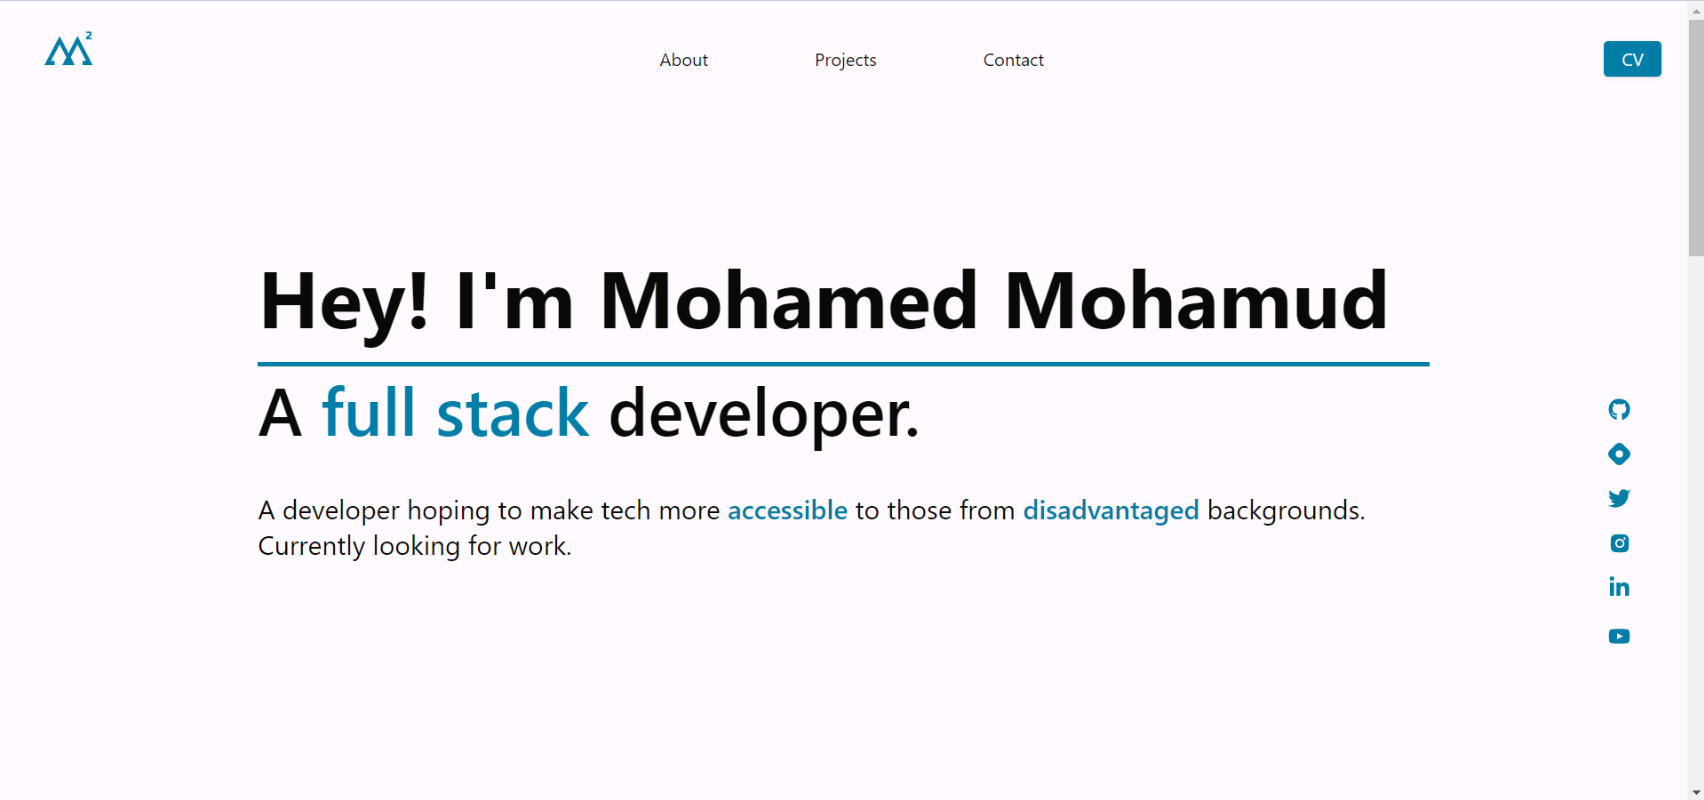
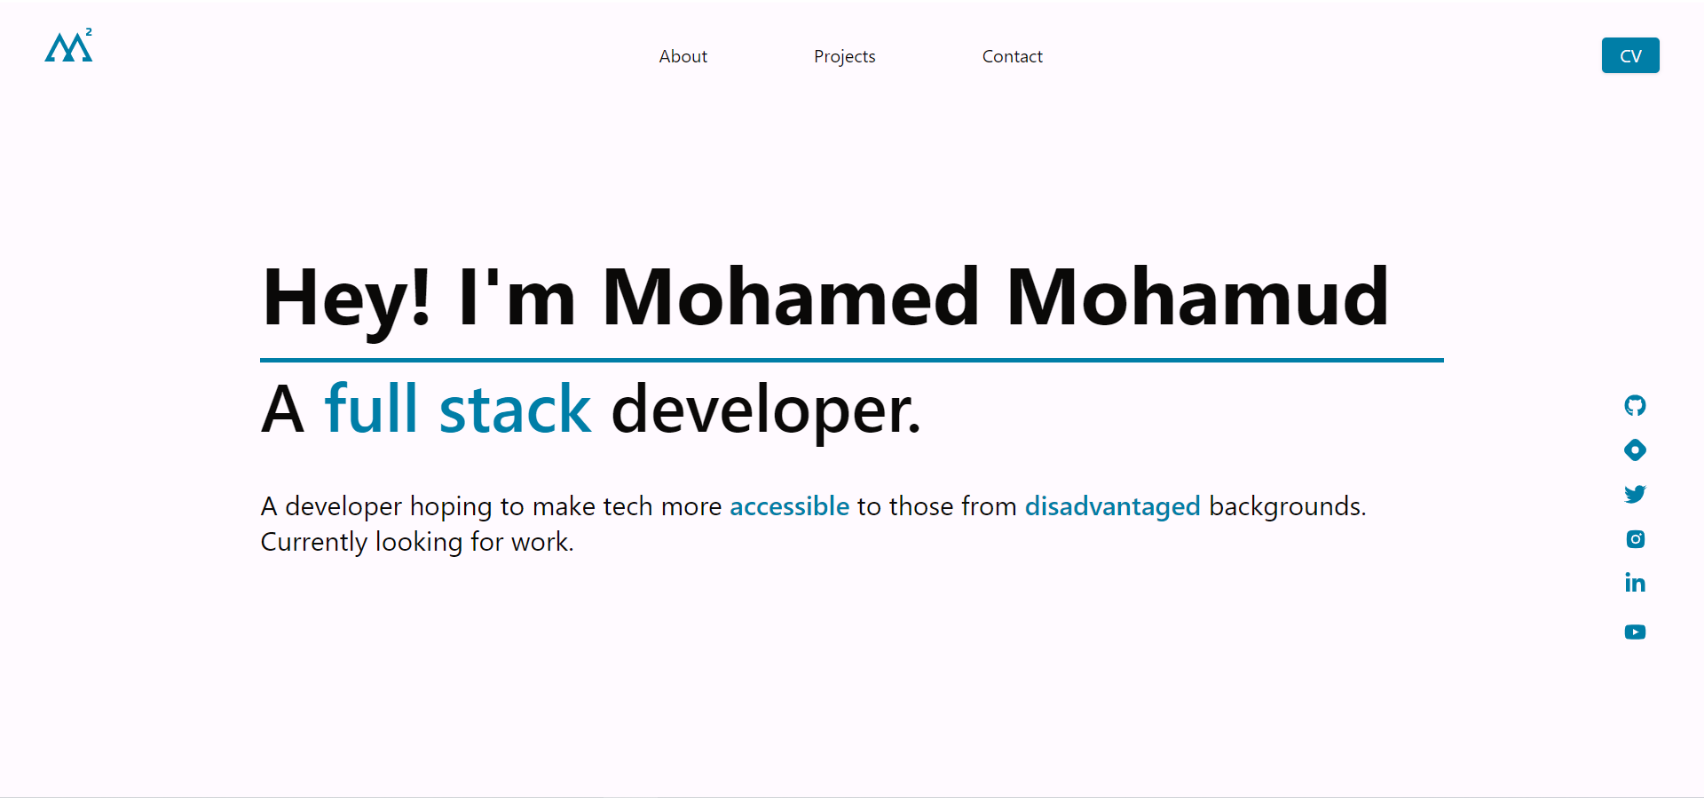
adding responsiveness to home and about pages

diff --git a/components/PageTwo/BodyTwo.js b/components/PageTwo/BodyTwo.js
@@ -12,13 +12,13 @@ function BodyTwo() {
       return (
             <div className="flex justify-center h-screen overflow-hidden">
                   <div className="flex w-10/12 overflow-hidden ">
-                        <div className="flex h-screen md:pt-24">
+                        <div className="flex h-screen  md:pt-24">
                               <div>
-                                    <div className="pb-3 text-portblue text-[8vw] md:text-5xl font-semibold">
+                                    <div className="pb-3 text-portblue text-[7vw] md:text-5xl font-semibold">
                                           <div>About me</div>
                                     </div>
                                     <div className="pb-8 border-t-4 w-60 border-portblue"></div>
-                                    <div className="w-8/12  text-portblack text-[4vw] md:text-[1.075rem]">
+                                    <div className="w-9/12  text-portblack text-[2.375vw] md:text-[1.075rem]">
                                           <div className="pb-5 ">
                                                 <p>
                                                       {" "}
@@ -136,45 +136,31 @@ function BodyTwo() {
                                           <div className="flex justify-between">
                                                 <Technologies
                                                       technology="React"
-                                                      icon={
-                                                            <FaReact size="45" />
-                                                      }
+                                                      icon={<FaReact />}
                                                 />
                                                 <Technologies
                                                       technology="JavaScript"
-                                                      icon={
-                                                            <DiJavascript1 size="45" />
-                                                      }
+                                                      icon={<DiJavascript1 />}
                                                 />
                                                 <Technologies
                                                       technology="Node.js"
-                                                      icon={
-                                                            <FaNodeJs size="45" />
-                                                      }
+                                                      icon={<FaNodeJs />}
                                                 />
                                                 <Technologies
                                                       technology="Next.js"
-                                                      icon={
-                                                            <SiNextdotjs size="45" />
-                                                      }
+                                                      icon={<SiNextdotjs />}
                                                 />
                                                 <Technologies
                                                       technology="Jest"
-                                                      icon={
-                                                            <SiJest size="45" />
-                                                      }
+                                                      icon={<SiJest />}
                                                 />
                                                 <Technologies
                                                       technology="TypeScript"
-                                                      icon={
-                                                            <SiTypescript size="45" />
-                                                      }
+                                                      icon={<SiTypescript />}
                                                 />
                                                 <Technologies
                                                       technology="PostgreSQL"
-                                                      icon={
-                                                            <SiPostgresql size="45" />
-                                                      }
+                                                      icon={<SiPostgresql />}
                                                 />
                                           </div>
                                     </div>

diff --git a/components/PageThree/Projects/ProjectThree.js b/components/PageThree/Projects/ProjectThree.js
@@ -1,31 +1,34 @@
 import Project from "./Project";
 import Technologies from "../../PageTwo/Technologies";
-import { FaHtml5 } from "react-icons/fa";
-import { DiJavascript1 } from "react-icons/di";
-import { SiCss3 } from "react-icons/si";
-import Pokedex from "../../../images/projects/Pokedex.png";
+import { FaReact } from "react-icons/fa";
+import { SiNextdotjs, SiTailwindcss } from "react-icons/si";
+import Portfolio from "../../../images/projects/Portfolio.png";
 
 function ProjectThree() {
       return (
             <div className="pt-16 ">
                   <Project
-                        href={
-                              "https://codepen.io/codingmohamed/project/full/ZgvBnr"
-                        }
-                        image={Pokedex}
-                        text="Lorem ipsum dolor sit amet, consectetur adipiscing elit, sed do eiusmod tempor incididunt ut labore et dolore magna aliqua. Ut enim ad minim veniam, quis nostrud exercitation ullamco laboris nisi ut aliquip ex ea commodo consequat. Duis aute irure dolor in reprehenderit in voluptate velit esse cillum dolore eu fugiat nulla pariatur. Excepteur sint occaecat cupidatat non proident, sunt in culpa qui officia deserunt mollit anim id est laborum."
+                        image={Portfolio}
+                        text=<div>
+                              <div>
+                                    You're already here! My personal portfolio.
+                              </div>
+                              <div className="pt-5 ">
+                                    [Individual Project - obviously!]
+                              </div>
+                        </div>
                         techStack=<div className="flex justify-between w-[34rem]">
                               <Technologies
-                                    technology="HTML"
-                                    icon={<FaHtml5 size="45" />}
+                                    technology="React"
+                                    icon={<FaReact size="45" />}
                               />
                               <Technologies
-                                    technology="CSS"
-                                    icon={<SiCss3 size="45" />}
+                                    technology="Next.js"
+                                    icon={<SiNextdotjs size="45" />}
                               />
                               <Technologies
-                                    technology="Vanilla JS"
-                                    icon={<DiJavascript1 size="45" />}
+                                    technology="Tailwind CSS"
+                                    icon={<SiTailwindcss size="45" />}
                               />
                         </div>
                   />

diff --git a/components/PageThree/Projects/ProjectFour.js b/components/PageThree/Projects/ProjectFour.js
@@ -1,0 +1,48 @@
+import ProjectFlipped from "./ProjectFlipped";
+import Technologies from "../../PageTwo/Technologies";
+import { FaHtml5 } from "react-icons/fa";
+import { DiJavascript1 } from "react-icons/di";
+import { SiCss3 } from "react-icons/si";
+import Pokedex from "../../../images/projects/Pokedex.png";
+
+function ProjectFour() {
+      return (
+            <div className="pt-16 ">
+                  <ProjectFlipped
+                        href={
+                              "https://codepen.io/codingmohamed/project/full/ZgvBnr"
+                        }
+                        image={Pokedex}
+                        text=<div>
+                              <div>
+                                    My first personal project, and what better
+                                    way to start my coding journey than with a
+                                    childhood favourite? Two weeks into the
+                                    Bootcamp, we were introduced to the Pokémon
+                                    API and the rest was history. I wanted to
+                                    refactor the code (it's not even responsive)
+                                    but I decided not to change the code to
+                                    remind myself where I started.
+                              </div>
+                              <div className="pt-5">[Individual Project]</div>
+                        </div>
+                        techStack=<div className="flex justify-between w-[34rem]">
+                              <Technologies
+                                    technology="HTML"
+                                    icon={<FaHtml5 size="45" />}
+                              />
+                              <Technologies
+                                    technology="CSS"
+                                    icon={<SiCss3 size="45" />}
+                              />
+                              <Technologies
+                                    technology="Vanilla JS"
+                                    icon={<DiJavascript1 size="45" />}
+                              />
+                        </div>
+                  />
+            </div>
+      );
+}
+
+export default ProjectFour;

diff --git a/components/PageThree/Projects/ProjectOne.js b/components/PageThree/Projects/ProjectOne.js
@@ -15,15 +15,18 @@ function ProjectOne() {
                   <Project
                         href={"https://bookwormsreading.netlify.app/"}
                         image={BookWorms}
-                        text="A group project where we created a
-                                          modern solution to an age-old problem.
-                                          Book Worms allows teachers to be able
-                                          to digitally monitor students' reading
-                                          habits. Teachers can view class and
-                                          (specific) student data Students can
-                                          add data on how much they've read and
-                                          also leave a comment on their most
-                                          recent reading."
+                        text=<div>
+                              <div>
+                                    A modern solution to an age-old problem.
+                                    Book Worms allows teachers to be able to
+                                    digitally monitor students' reading habits.
+                                    Teachers can view class and (specific)
+                                    student data Students can add data on how
+                                    much they've read and also leave a comment
+                                    on their most recent reading.
+                              </div>
+                              <div className="pt-5">[4-week Group Project]</div>
+                        </div>
                         techStack=<div className="flex justify-between w-[34rem]">
                               <Technologies
                                     technology="React"

diff --git a/components/PageOne/BodyOne.js b/components/PageOne/BodyOne.js
@@ -6,19 +6,19 @@ function BodyOne() {
                   <div className="flex w-10/12 overflow-hidden ">
                         <div className="flex items-center content-center h-screen">
                               <div>
-                                    <div className="pt-6 pb-3">
+                                    <div className="pb-3 md:pt-6">
                                           <h2 className=" pb-6 md:text-7xl font-bold text-portblack text-[8vw]">
                                                 Hey! I'm Mohamed Mohamud
                                           </h2>
                                           <div className="w-full py-1 border-t-4 border-portblue"></div>
-                                          <h2 className="pb-6 text-portblack text-[8vw] md:text-6xl font-semibold ">
+                                          <h2 className="pb-6 text-portblack text-[6.9vw] md:text-6xl font-semibold ">
                                                 A
                                                 <span className=" text-portblue">
                                                       {""} full stack {""}
                                                 </span>
                                                 developer.
                                           </h2>
-                                          <p className="pt-5 md:text-2xl text-portblack text-[5vw] ">
+                                          <p className="pt-5 md:text-2xl text-portblack text-[4.5vw] ">
                                                 A developer hoping to make tech
                                                 more{" "}
                                                 <span className="font-semibold text-portblue">

diff --git a/components/PageThree/Projects/Project.js b/components/PageThree/Projects/Project.js
@@ -7,8 +7,8 @@ const Project = ({ icon, techStack, text, image, href }) => {
                               <div className="flex w-auto h-[17.813rem] overflow-hidden rounded-lg bg-blueme">
                                     <a
                                           className=" w-[38rem] filter brightness-50 hover:brightness-110 transition-all duration-200"
-                                          href={href}
-                                          target="_blank"
+                                          href={href ? href : "#"}
+                                          target={href ? "_blank" : ""}
                                           rel="noreferrer"
                                     >
                                           <Image src={image} />
@@ -18,9 +18,7 @@ const Project = ({ icon, techStack, text, image, href }) => {
                                     <div className="h-auto w-[40rem] bg-portblue text-portwhite -translate-x-16 py-4 px-4 rounded-md">
                                           {text}
                                     </div>
-                                    <div className="flex justify-center pt-4">
-                                          <h4>Technologies used:</h4>
-                                    </div>
+                                    <div className="flex justify-center pt-4"></div>
                                     <div>{techStack}</div>
                               </div>
                         </div>

diff --git a/components/PageThree/Projects/ProjectTwo.js b/components/PageThree/Projects/ProjectTwo.js
@@ -10,7 +10,7 @@ function ProjectTwo() {
                   <ProjectFlipped
                         href={"https://gracious-wescoff-9aa876.netlify.app/"}
                         image={SOCDashbpard}
-                        text="Lorem ipsum dolor sit amet, consectetur adipiscing elit, sed do eiusmod tempor incididunt ut labore et dolore magna aliqua. Ut enim ad minim veniam, quis nostrud exercitation ullamco laboris nisi ut aliquip ex ea commodo consequat. Duis aute irure dolor in reprehenderit in voluptate velit esse cillum dolore eu fugiat nulla pariatur. Excepteur sint occaecat cupidatat non proident, sunt in culpa qui officia deserunt mollit anim id est laborum."
+                        text="&#8221;We have so many different Slack channels and I find it difficult to find the information that I need when I need it&#8221; - here comes the School of Code Dashboard. The Dashboard allows bootcampers to quickly find any previous resources shared and it even has a 'Study Buddy' section where bootcampers can inform others of what they're studying, when and how to study with them to promote pair programming! [1-week Group Project]"
                         techStack=<div className="flex justify-between w-[34rem]">
                               <Technologies
                                     technology="React"

diff --git a/components/PageTwo/Technologies.js b/components/PageTwo/Technologies.js
@@ -1,10 +1,10 @@
 const Technologies = ({ icon, technology, font }) => {
       return (
-            <div className="flex flex-col items-center w-20 ">
-                  <div className="flex items-center justify-center w-16 h-16 rounded-2xl text-portblue">
-                        <div>{icon}</div>
+            <div className="flex flex-col items-center w-[5vw] md:w-20 ">
+                  <div className="flex items-center justify-center  md:w-16 md:h-16 rounded-2xl text-[4vw] md:text-[2.83rem] text-portblue">
+                        <div className="">{icon}</div>
                   </div>
-                  <div className="flex items-center justify-center text-sm font-semibold text-portblack">
+                  <div className="flex items-center justify-center text-[1.25vw] font-semibold md:text-sm text-portblack">
                         {technology}
                   </div>
             </div>

diff --git a/components/PageThree/BodyThree.js b/components/PageThree/BodyThree.js
@@ -2,6 +2,7 @@ import Projects from "./Projects/Project";
 import ProjectOne from "./Projects/ProjectOne";
 import ProjectTwo from "./Projects/ProjectTwo";
 import ProjectThree from "./Projects/ProjectThree";
+import ProjectFour from "./Projects/ProjectFour";
 import Technologies from "../PageTwo/Technologies";
 import {
       SiNextdotjs,
@@ -27,6 +28,7 @@ function BodyThree() {
                                           <ProjectOne />
                                           <ProjectTwo />
                                           <ProjectThree />
+                                          <ProjectFour />
                                     </div>
                               </div>
                         </div>

diff --git a/components/Layout/Layout.js b/components/Layout/Layout.js
@@ -123,7 +123,7 @@ function LayOut({ Body }) {
                                     />
                                     <SideBarIcon
                                           href="https://www.instagram.com/codewithmohamed/"
-                                          icon={<AiFillInstagram size="21" />}
+                                          icon={<FaInstagram size="20" />}
                                     />
                                     <SideBarIcon
                                           href="https://www.linkedin.com/in/mohamed-mohamud-"

diff --git a/components/PageThree/Projects/ProjectFlipped.js b/components/PageThree/Projects/ProjectFlipped.js
@@ -19,7 +19,6 @@ const ProjectFlipped = ({ icon, techStack, text, image, href }) => {
                                           {text}
                                     </div>
                                     <div className="flex justify-center pt-4">
-                                          <h4>Technologies used:</h4>
                                     </div>
                                     <div>{techStack}</div>
                               </div>
